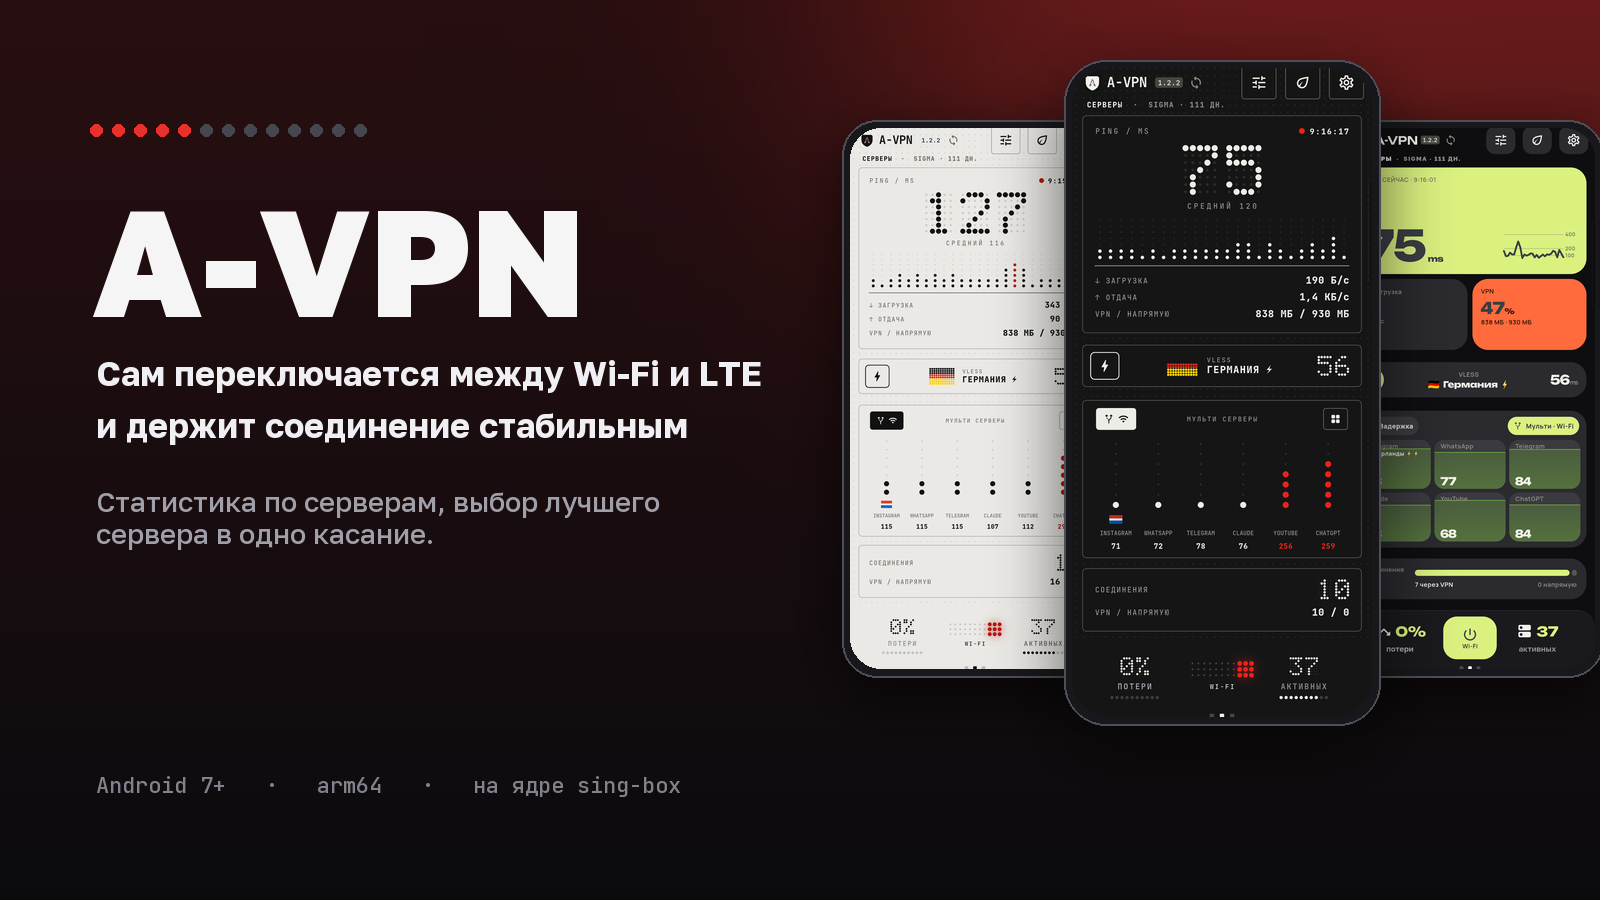
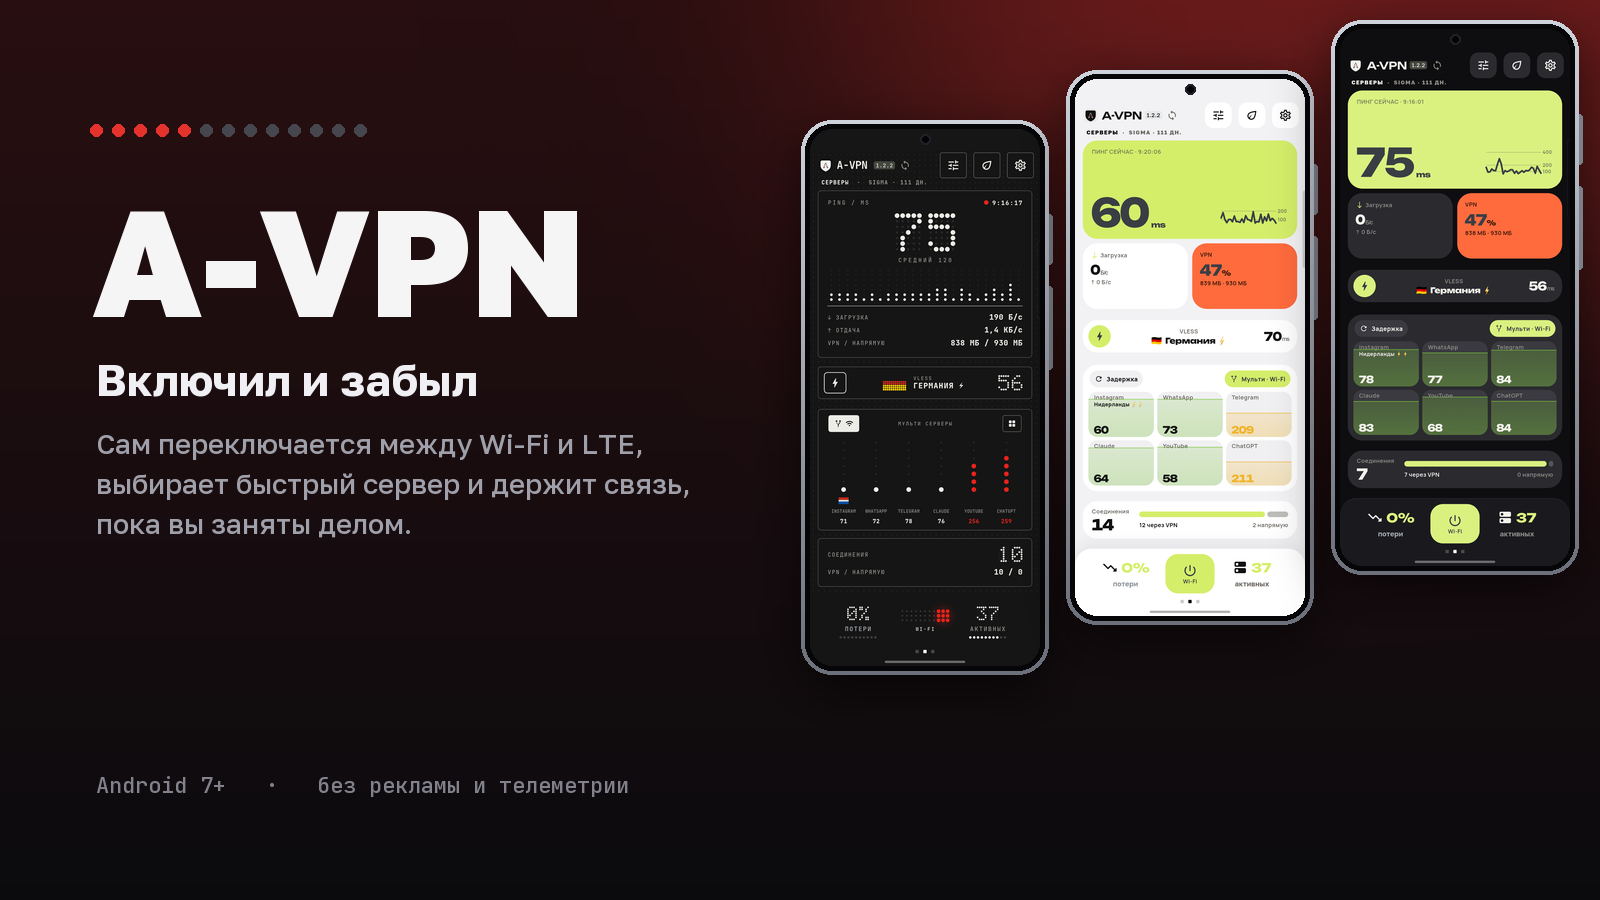
README: marketing copy and new pictures on a Galaxy Z Fold 7 frame

Changed region(s): [[0.5, 0.0, 1.0, 0.8089], [0.0625, 0.4044, 0.4688, 0.6222], [0.2188, 0.8711, 0.375, 0.9022]]

diff --git a/README.md b/README.md
@@ -1,5 +1,5 @@
 <p align="center">
-  <img src="docs/screenshots/hero.png" alt="A-VPN: сам переключается между Wi-Fi и LTE и держит соединение стабильным">
+  <img src="docs/screenshots/hero.png" alt="A-VPN: включил и забыл. Сам переключается между Wi-Fi и LTE, выбирает быстрый сервер и держит связь">
 </p>
 
 <p align="center">
@@ -19,30 +19,30 @@
 
 > **A-VPN не связан с командой Hiddify и не одобрен ею.** Это независимый форк по условиям их лицензии (см. [Лицензия](#лицензия)). Оригинал: <https://github.com/hiddify/hiddify-app>.
 
-## Сильные стороны
+## Связь, о которой не нужно думать
 
 <p align="center">
-  <img src="docs/screenshots/strengths.png" alt="Wi-Fi и LTE без вашего участия, серверы под сеть, стабильное соединение">
+  <img src="docs/screenshots/why.png" alt="Wi-Fi и LTE без переключений, всегда нужный сервер, связь не пропадает">
 </p>
 
-- **Wi‑Fi и LTE без вашего участия.** Сеть сменилась: серверы и настройки подобраны под неё, VPN не отключается.
-- **Серверы под сеть.** В мобильной сети только серверы для белых списков, в Wi‑Fi обычные; страны отключаются отдельно для каждой сети.
-- **Стабильное соединение.** Постоянный контроль пинга и потерь, перевыбор сервера, перезапуск ядра, если связь пропала, проверка и восстановление связи после сна телефона.
+- **Wi‑Fi и LTE без переключений.** Вышли из дома, и приложение уже подобрало серверы под мобильную сеть: без отключений и ручных настроек.
+- **Всегда нужный сервер.** В мобильной сети серверы для белых списков, в Wi‑Fi обычные; страны включаются для каждой сети отдельно.
+- **Связь не пропадает.** Приложение следит за пингом и потерями, меняет сервер до того, как вы заметите проблему, и само приводит связь в порядок после сна телефона.
 
 <p align="center">
-  <img src="docs/screenshots/advantages.png" alt="Все плюсы A-VPN">
+  <img src="docs/screenshots/inside.png" alt="Всё, что нужно, и ничего лишнего">
 </p>
 
-## Скриншоты
+## Как выглядит
 
-Основная тема «Точки», рядом Bento; у каждой есть дневной и ночной вид.
+Спокойный минимализм или яркие плитки, светлая и тёмная версии.
 
 <p align="center">
-  <img src="docs/screenshots/themes.png" alt="Темы «Точки» и Bento, день и ночь">
+  <img src="docs/screenshots/looks.png" alt="Два стиля приложения, день и ночь">
 </p>
 
 <p align="center">
-  <img src="docs/screenshots/features.png" alt="Выбор сервера, статистика по серверам, статистика, настройки">
+  <img src="docs/screenshots/screens.png" alt="Выбор сервера, куда ушёл трафик, как держится связь, настройки">
 </p>
 
 ## Что умеет
@@ -67,7 +67,7 @@
 - Потери и пинг с историей, трафик по приложениям.
 
 **Интерфейс и батарея**
-- Основная тема «Точки» и Bento, день и ночь, масштаб интерфейса и шрифта (в приложении есть ещё Glass и Contrast).
+- Два стиля на выбор (спокойный минимализм и яркие плитки; есть и стеклянный, и контрастный), светлая и тёмная версии, масштаб интерфейса и шрифта.
 - Ночной режим и «лёгкая работа в фоне»: реже опросы, меньше пробуждений.
 - Проверка и восстановление связи после сна телефона.
 
